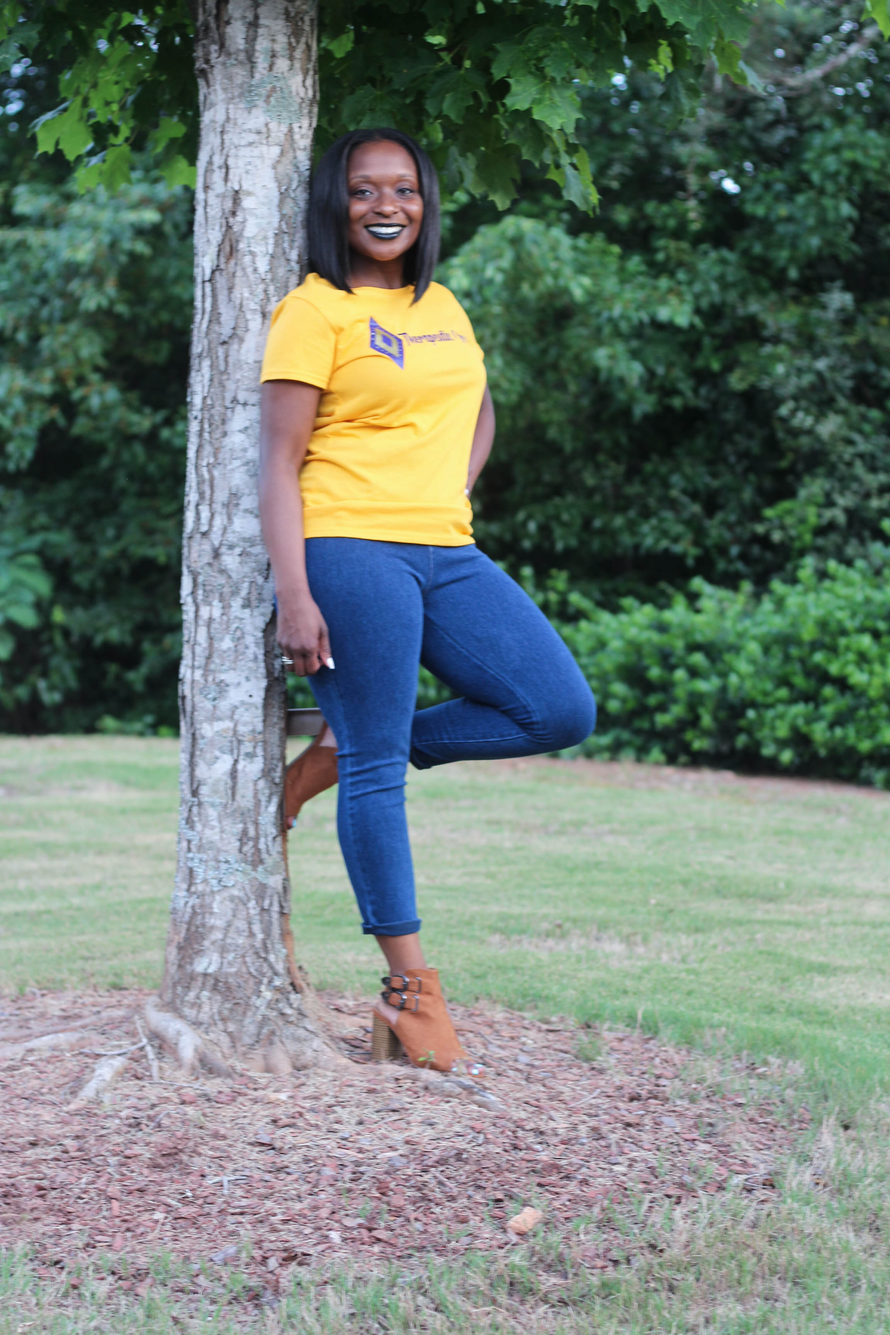
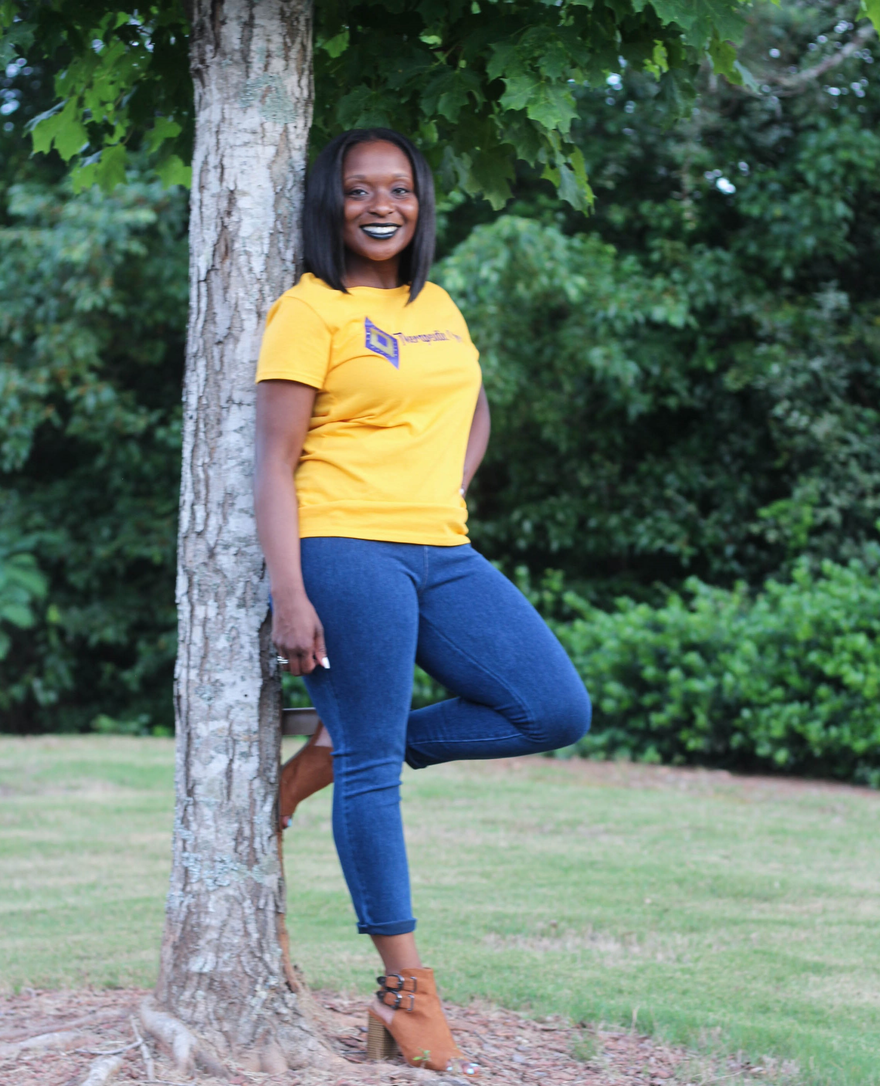
fixed about me page placement and 2oz herbal teas

diff --git a/assets/css/about.css b/assets/css/about.css
@@ -222,7 +222,8 @@ div#navi a {
         top: 40px;
     }
     #pics {
-        width: 90%
+        width: 90%;
+        height: 770px;
     }
     .meetUs {
         display: none !important;
@@ -265,8 +266,9 @@ div#navi a {
     margin-left: auto;
     margin-right: auto;
     background: url("../images/IMG_6625.jpg");
-    background-position: top;
+    background-position: -360px 0px;
     background-size: cover;
+    background-repeat: no-repeat;
     height: 100%;
 }
 
@@ -318,10 +320,10 @@ div#navi a {
 .daniName {
     font-family: "Parisienne", cursive;
     position: relative;
-    /* left: -140px; */
+    left: -140px;
     font-size: 90px;
     color: #B47EB3;
-    /* top: -50px; */
+    top: -50px;
 }
 
 .aboutImg {
@@ -476,12 +478,14 @@ div#navi a {
     }
     .daniName {
         top: 0px;
-        left: -20px;
+        left: -110px;
         text-align: center;
     }
     .infoGrid {
         grid-template-columns: 20% 60% 20%;
-        height: -webkit-fill-available;
+    }
+    .aboutBox1 {
+        height: 100%;
     }
     .jobTitle {
         font-size: 40px
@@ -500,6 +504,13 @@ div#navi a {
     }
     .copyright {
         grid-column: 1 / 4;
+    }
+}
+
+@media only screen and (min-width:1050px ) {
+    .meetUs {
+        display: block !important;
+        background-position: top;
     }
 }
 

diff --git a/assets/js/services.js b/assets/js/services.js
@@ -120,7 +120,7 @@ document.addEventListener("DOMContentLoaded", function(event) {
                 ship: "*Shipping $5.49"
             },
             chakra: "1 HOUR CHAKRA SESSION: $75",
-            teas: "Three 2OZ JARS $15",
+            teas: "Three 2oz JARS $15",
             reflex: {
                 price: "1 HOUR FOOT REFLEXOLOGY SESSION: $65",
                 price2: "1 HOUR HAND REFLEXOLOGY SESSION: $45"
